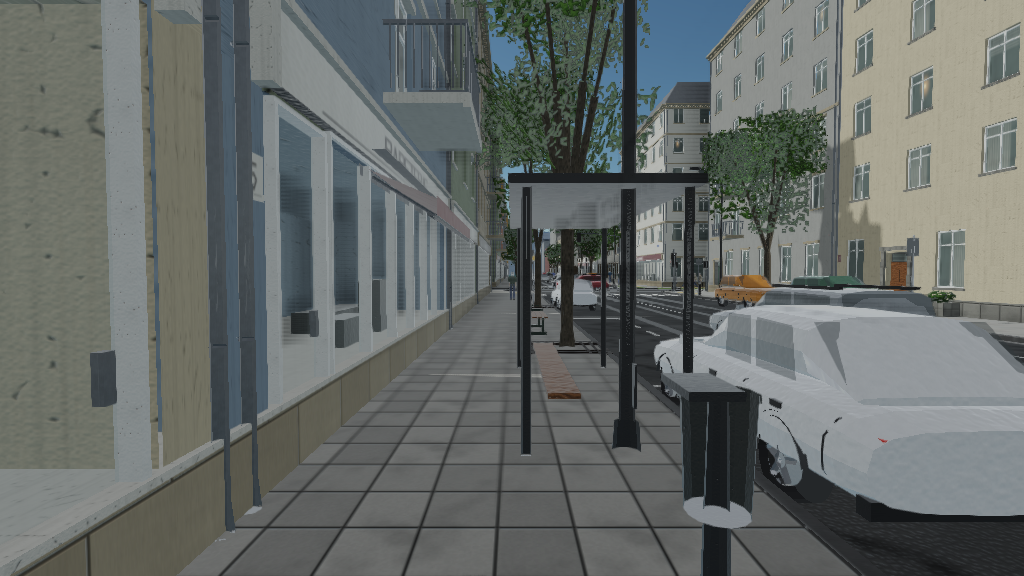
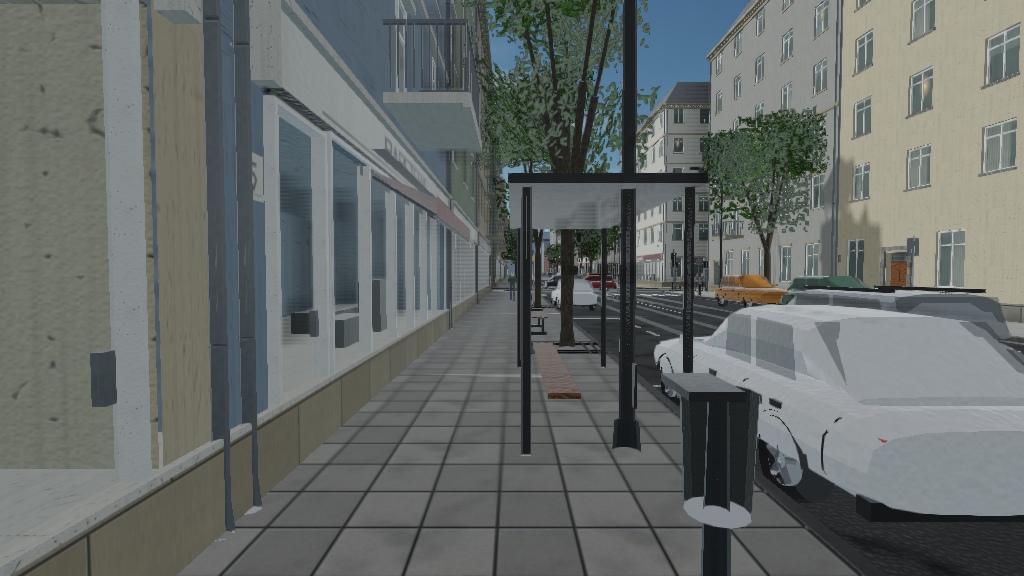
test: image-based screenshot regression
`--capture` already rendered every named viewpoint. This adds the other
half: `compare-images` and `scripts/check-screenshots.sh`, which render
the set and compare it with the one committed under docs/screenshots.

A capture now advances the clock by a fixed step rather than by however
long the last frame took. Without that the sky's clouds and the traffic
are wherever wall-clock time left them, and two runs of an unchanged
build differed in a quarter of the pixels of a view of the sky -- which
makes the comparison meaningless. They are bit-identical now.

The comparison is deliberately tolerant: 2 % of pixels may differ by more
than 8/255. A driver update or an anti-aliasing decision moves individual
pixels without changing the picture, and an image test that fails on
those is an image test somebody turns off.

Also here, from running the presets end to end: the settings file is now
read *before* the command line rather than after, so a settings document
no longer silently overrides every flag -- `--preset low` ran at high
quality with nothing on screen to say why. And `low` asked for one shadow
cascade, which CascadedShadowMap refuses; it asks for two now, and the
renderer catches the refusal and loses shadows rather than the street.

diff --git a/tools/compare/CompareImages.cpp b/tools/compare/CompareImages.cpp
@@ -1,0 +1,150 @@
+// SPDX-License-Identifier: MIT
+//
+// Compares two PNGs and says how different they are.
+//
+// The other half of `cna-street --capture`. The viewpoints are fixed, the scene
+// comes from a seed, and the capture writes the same frames every time, so a
+// change to a generator or a shader shows up as a difference in a known image
+// rather than as something somebody notices six commits later.
+//
+// The comparison is deliberately tolerant of the differences that do not
+// matter. A GPU driver, a Mesa version and an anti-aliasing decision all move
+// individual pixels by a few units without changing the picture, so the test is
+// the *fraction of pixels that differ noticeably*, not exact equality: an image
+// regression test that fails on a driver update is an image regression test
+// somebody turns off.
+
+#include <algorithm>
+#include <cmath>
+#include <cstdio>
+#include <cstdlib>
+#include <cstring>
+#include <string>
+#include <vector>
+
+// stb_image expects the C library to have been included already, and in a C++
+// translation unit the <cstring> names live in std:: unless they are pulled in
+// first. Including it after the standard headers is not a style choice.
+#define STB_IMAGE_IMPLEMENTATION
+#define STBI_ONLY_PNG
+#include "stb_image.h"
+
+namespace {
+
+struct Loaded
+{
+    int width = 0;
+    int height = 0;
+    unsigned char* pixels = nullptr;
+
+    ~Loaded() { if (pixels != nullptr) stbi_image_free(pixels); }
+};
+
+bool Load(const char* path, Loaded& out)
+{
+    int channels = 0;
+    out.pixels = stbi_load(path, &out.width, &out.height, &channels, 4);
+    if (out.pixels == nullptr)
+    {
+        std::fprintf(stderr, "compare-images: could not read '%s': %s\n", path,
+                     stbi_failure_reason());
+        return false;
+    }
+    return true;
+}
+
+}  // namespace
+
+int main(int argc, char** argv)
+{
+    std::string reference, candidate;
+    // A pixel counts as changed when any channel moves by more than this. Eight
+    // of 255 is about the point at which a difference stops being dithering.
+    int channelThreshold = 8;
+    // And the images differ when more than this fraction of them changed.
+    double tolerance = 0.02;
+    bool quiet = false;
+
+    for (int i = 1; i < argc; ++i)
+    {
+        const std::string arg = argv[i];
+        auto value = [&](const char* what) -> const char* {
+            if (i + 1 >= argc)
+            {
+                std::fprintf(stderr, "compare-images: %s needs a value\n", what);
+                std::exit(2);
+            }
+            return argv[++i];
+        };
+        if (arg == "--tolerance") tolerance = std::atof(value("--tolerance"));
+        else if (arg == "--channel-threshold") channelThreshold = std::atoi(value("--channel-threshold"));
+        else if (arg == "--quiet") quiet = true;
+        else if (arg == "--help" || arg == "-h")
+        {
+            std::printf(
+                "compare-images <reference.png> <candidate.png> [options]\n\n"
+                "Exits 0 when the two images match within tolerance, 1 when they do not,\n"
+                "and 2 when it could not compare them at all.\n\n"
+                "  --tolerance <f>           fraction of pixels allowed to differ (default 0.02)\n"
+                "  --channel-threshold <n>   per-channel difference that counts (default 8)\n"
+                "  --quiet                   print nothing when the images match\n");
+            return 0;
+        }
+        else if (reference.empty()) reference = arg;
+        else if (candidate.empty()) candidate = arg;
+        else
+        {
+            std::fprintf(stderr, "compare-images: unexpected argument '%s'\n", arg.c_str());
+            return 2;
+        }
+    }
+
+    if (reference.empty() || candidate.empty())
+    {
+        std::fprintf(stderr, "compare-images: two image paths are required (try --help)\n");
+        return 2;
+    }
+
+    Loaded a, b;
+    if (!Load(reference.c_str(), a) || !Load(candidate.c_str(), b)) return 2;
+    if (a.width != b.width || a.height != b.height)
+    {
+        std::fprintf(stderr, "compare-images: %dx%d and %dx%d are different sizes\n", a.width,
+                     a.height, b.width, b.height);
+        return 2;
+    }
+
+    const std::size_t pixels = static_cast<std::size_t>(a.width) * a.height;
+    std::size_t changed = 0;
+    std::size_t worstAt = 0;
+    int worst = 0;
+    double total = 0.0;
+
+    for (std::size_t i = 0; i < pixels; ++i)
+    {
+        int biggest = 0;
+        for (int c = 0; c < 3; ++c)
+        {
+            const int delta = std::abs(static_cast<int>(a.pixels[i * 4 + static_cast<std::size_t>(c)])
+                                       - static_cast<int>(b.pixels[i * 4 + static_cast<std::size_t>(c)]));
+            biggest = std::max(biggest, delta);
+            total += delta;
+        }
+        if (biggest > channelThreshold) ++changed;
+        if (biggest > worst) { worst = biggest; worstAt = i; }
+    }
+
+    const double fraction = static_cast<double>(changed) / static_cast<double>(pixels);
+    const double mean = total / (static_cast<double>(pixels) * 3.0);
+    const bool matches = fraction <= tolerance;
+
+    if (!matches || !quiet)
+    {
+        std::printf("%s %s: %.3f%% of pixels differ (mean %.2f, worst %d at %zu,%zu) -- %s\n",
+                    matches ? "OK  " : "FAIL", candidate.c_str(), fraction * 100.0, mean, worst,
+                    worstAt % static_cast<std::size_t>(a.width),
+                    worstAt / static_cast<std::size_t>(a.width),
+                    matches ? "within tolerance" : "TOO DIFFERENT");
+    }
+    return matches ? 0 : 1;
+}

diff --git a/street/src/StreetApplication.cpp b/street/src/StreetApplication.cpp
@@ -76,6 +76,14 @@ bool StreetApplication::configure(int argc, char** argv)
         return (i + 1 < argc) ? argv[++i] : nullptr;
     };
 
+    // The settings file is read *before* the options, not after, so that the
+    // command line wins. It used to be loaded at the end, which meant a settings
+    // document silently overrode every flag on the command line -- `--preset low`
+    // ran at high quality and there was nothing on screen to say why.
+    for (int i = 1; i + 1 < argc; ++i)
+        if (std::string(argv[i]) == "--settings") settingsPath_ = argv[i + 1];
+    loadSettingsFile();
+
     for (int i = 1; i < argc; ++i)
     {
         const std::string arg = argv[i];
@@ -175,7 +183,6 @@ bool StreetApplication::configure(int argc, char** argv)
         }
         else if (arg == "--dump-settings")
         {
-            loadSettingsFile();
             std::fputs(settings_.toJson().c_str(), stdout);
             return false;
         }
@@ -186,7 +193,6 @@ bool StreetApplication::configure(int argc, char** argv)
         }
     }
 
-    loadSettingsFile();
     if (!captureDirectory_.empty())
     {
         // A capture run has no user to look at an overlay, and the overlay would
@@ -366,8 +372,18 @@ void StreetApplication::Update(GameTime& gameTime)
 {
     Game::Update(gameTime);
 
-    const float dt = static_cast<float>(
-        gameTime.getElapsedGameTimeProperty().getTotalSecondsProperty());
+    // A capture or a one-shot screenshot advances the clock by a fixed step
+    // rather than by however long the last frame took. Without it the sky's
+    // clouds and the traffic are wherever wall-clock time left them, two runs of
+    // --capture produce two different pictures, and the screenshot comparison
+    // that scripts/check-screenshots.sh is built on means nothing: a quarter of
+    // the pixels in a view of the sky differed between runs of an unchanged
+    // build.
+    const bool deterministic = !captureDirectory_.empty() || !screenshotPath_.empty();
+    const float dt = deterministic
+                         ? 1.0f / 60.0f
+                         : static_cast<float>(
+                               gameTime.getElapsedGameTimeProperty().getTotalSecondsProperty());
     elapsedSeconds_ += dt;
 
     const KeyboardState keyboard = Keyboard::GetState();

diff --git a/street/src/Render/SceneRenderer.cpp b/street/src/Render/SceneRenderer.cpp
@@ -143,10 +143,21 @@ void SceneRenderer::initialise(const RenderSettings& settings)
     {
         if (device_.SupportsShadowSamplingEXT())
         {
-            shadows_ = std::make_unique<CascadedShadowMap>(
-                device_, ToShadowQuality(settings.shadowQuality),
-                std::clamp(settings.shadowCascades, 1, CascadedShadowMap::kMaxCascades));
-            if (!shadows_->isSupported())
+            // Two is the floor, not one: CascadedShadowMap requires 2..4 and
+            // throws otherwise, and a settings file asking for one cascade
+            // should cost a cascade rather than the whole street.
+            try
+            {
+                shadows_ = std::make_unique<CascadedShadowMap>(
+                    device_, ToShadowQuality(settings.shadowQuality),
+                    std::clamp(settings.shadowCascades, 2, CascadedShadowMap::kMaxCascades));
+            }
+            catch (const std::exception& failure)
+            {
+                limitations_.emplace_back(std::string("no shadow map: ") + failure.what());
+                shadows_.reset();
+            }
+            if (shadows_ != nullptr && !shadows_->isSupported())
             {
                 limitations_.emplace_back("cascaded shadow maps are unavailable on this renderer");
                 shadows_.reset();

diff --git a/street/src/Render/RenderSettings.cpp b/street/src/Render/RenderSettings.cpp
@@ -39,9 +39,10 @@ void RenderSettings::applyPreset(QualityPreset preset)
         case QualityPreset::Low:
             // Everything a software rasteriser or an old integrated GPU can
             // still run at an interactive rate. Shadows survive -- a street
-            // without them stops being a street -- but at one coarse cascade.
+            // without them stops being a street -- but at two coarse cascades,
+            // which is the fewest CascadedShadowMap accepts.
             multiSample = 0;   renderScale = 0.72f;
-            shadows = true;    shadowCascades = 1;  shadowQuality = 0;
+            shadows = true;    shadowCascades = 2;  shadowQuality = 0;
             shadowDistance = 70.0f;  propShadowDistance = 34.0f;
             hdr = false;  bloom = false;  ssao = false;  fxaa = false;
             heightFog = true;  lightShafts = false;  ssr = false;  depthOfField = false;

diff --git a/README.md b/README.md
@@ -192,6 +192,11 @@ The command line, in full, is `--help`. The ones that matter:
 | `--dump-settings` | Print the effective settings as JSON and exit |
 | `--dump-shadow <file.png>` | Write the cascade atlas, which is the only way to tell an empty shadow map from a misplaced one |
 
+A capture or a one-shot screenshot runs the clock at a fixed step, so the frames
+it writes depend only on the seed and the frame count. That is what makes
+`scripts/check-screenshots.sh` a regression test rather than a diff of two
+different moments.
+
 ## Controls
 
 | | |
@@ -427,6 +432,25 @@ review.
 
 Two of them found live bugs on their first run.
 
+### Screenshot regression
+
+```sh
+./scripts/check-screenshots.sh
+```
+
+Renders every named viewpoint and compares it with the committed set in
+`docs/screenshots`. The scene comes from a seed, the viewpoints are fixed, and a
+capture advances the clock by a fixed step rather than by however long the last
+frame took, so two runs of an unchanged build are **bit-identical** — the sky's
+clouds and the traffic are where the frame count puts them, not where wall-clock
+time left them.
+
+The comparison is tolerant on purpose: it allows 2 % of pixels to differ by more
+than 8/255, because a driver update or an anti-aliasing decision moves
+individual pixels without changing the picture, and an image test that fails on
+those is an image test somebody turns off. `TOLERANCE`, `WIDTH`, `HEIGHT`,
+`BUILD_DIR` and `REFERENCE_DIR` are environment overrides.
+
 ## Performance
 
 The numbers below are from `--preset high` at 1280×720 on **Mesa llvmpipe** —
@@ -488,6 +512,8 @@ dependencies.lock           the upstream revisions this is verified against
 scripts/fetch-dependencies.sh
 street/                     the application and its static library
 tools/bake/                 the offline surface baker
+tools/compare/              the screenshot comparator
+scripts/check-screenshots.sh
 tests/                      the unit tests
 assets/config/render.json   a settings document
 assets/ATTRIBUTION.md       where the assets come from

diff --git a/plan.md b/plan.md
@@ -55,7 +55,10 @@ generating. It needed a mip-chain generator contributed to CNA to be worth
 having.
 
 **Phase 15 — tests.** Eight suites, registered with CTest, over the logic that
-has no picture. Two found live bugs on their first run.
+has no picture. Two found live bugs on their first run. Plus image-based
+screenshot regression: a fixed-step capture clock makes two runs of an unchanged
+build bit-identical, and `scripts/check-screenshots.sh` compares every named
+viewpoint against the committed set.
 
 **Phase 16 — documentation.** `README.md`, `docs/design-notes.md`,
 `docs/cna-findings.md`, `assets/ATTRIBUTION.md`, and the screenshot set.
@@ -137,8 +140,6 @@ textures look worse than generating them. `docs/patches/` carries the commit.
 * **Audio.** CNA's audio module works; the demo has nothing to play through it.
 * **A measured `low` preset.** Its decisions are reasoned rather than measured,
   because this environment has only a software rasteriser.
-* **Image-based screenshot regression.** The viewpoints are stable and
-  `--capture` is deterministic, so the comparison is the missing half.
 
 ## Blockers
 
